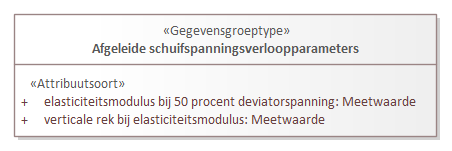
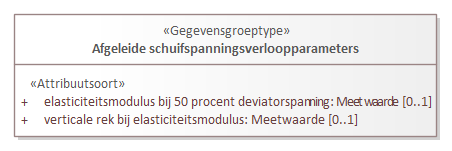
Conceptualmodel-GeotechnischbooronderzoekBHR-GT-2.3-2-20260424-20260708-123848

Changed region(s): [[0.6814, 0.6358, 0.9602, 0.8477]]

diff --git a/data/BHR-GT-cat.msword.html b/data/BHR-GT-cat.msword.html
@@ -6,7 +6,7 @@
                     table.list tbody tr th {background-color: #d3d3d3;}
                     table.list tbody tr th,
                     table.list tbody tr td {border: 1px solid black;}
-                </style></head><body><p>Conceptual model/Geotechnisch booronderzoek (BHR-GT)/20260424</p><p>Imvertor: Nightly-build.0</p><p>Model release: Conceptualmodel-GeotechnischbooronderzoekBHR-GT-2.3-2-20260424-20260708-110743</p><hr><section><h1>Artikel 1 Definitie van registratieobject, entiteiten en attributen</h1><section><h2>Registratieobject</h2><section id="global_class_Model_Registratieobject">
+                </style></head><body><p>Conceptual model/Geotechnisch booronderzoek (BHR-GT)/20260424</p><p>Imvertor: Nightly-build.0</p><p>Model release: Conceptualmodel-GeotechnischbooronderzoekBHR-GT-2.3-2-20260424-20260708-123848</p><hr><section><h1>Artikel 1 Definitie van registratieobject, entiteiten en attributen</h1><section><h2>Registratieobject</h2><section id="global_class_Model_Registratieobject">
                <table style="width: 100%;"><colgroup style="width: 30%;"></colgroup><colgroup style="width: 70%;"></colgroup><tbody><tr><th scope="row">Naam</th><td>Booronderzoek</td></tr><tr><th scope="row">Code</th><td>BHR</td></tr><tr><th scope="row">Definitie</th><td>
                         <p>Het geheel van gegevens dat betrekking heeft op een booronderzoek dat vanuit een bepaalde opdracht is uitgevoerd door op een bepaald moment op een bepaalde locatie in Nederland of zijn Exclusieve Economische Zone een boring uit te voeren en de monsters die daarmee uit de ondergrond zijn verkregen te beschrijven en/of te onderzoeken en/of in het boorgat zelf metingen aan de ondergrond uit te voeren.</p>
                      </td></tr><tr><th scope="row">Populatie</th><td>
@@ -4071,7 +4071,7 @@ De verschilwaterspanning wordt berekend of gemeten met een verschildrukopnemer e
                      </td></tr></tbody></table><section id="detail_attribute_Model_Afgeleideschuifspanningsverloopparameters_elasticiteitsmodulusbij50procentdeviatorspanning"><h4>  elasticiteitsmodulus bij 50 procent deviatorspanning</h4>
                   <table style="width: 100%;"><colgroup style="width: 30%;"></colgroup><colgroup style="width: 70%;"></colgroup><tbody><tr><th scope="row">Type gegeven</th><td>Attribuut van Afgeleide schuifspanningsverloopparameters</td></tr><tr><th scope="row">Definitie</th><td>
                            <p>De secantmodulus, oftewel de helling van de lijn getrokken van de oorsprong van de spanningsrekcurve tot aan het punt waar de deviatorspanning 50 % van zijn maximale waarde heeft bereikt.</p>
-                        </td></tr><tr><th scope="row">Juridische status</th><td>Authentiek</td></tr><tr><th scope="row">Kardinaliteit</th><td>1</td></tr><tr><th scope="row">Domein</th><td></td></tr><tr><th scope="row">&nbsp;&nbsp;Naam</th><td>Meetwaarde 
+                        </td></tr><tr><th scope="row">Juridische status</th><td>Authentiek</td></tr><tr><th scope="row">Kardinaliteit</th><td>0..1</td></tr><tr><th scope="row">Domein</th><td></td></tr><tr><th scope="row">&nbsp;&nbsp;Naam</th><td>Meetwaarde 
                         5.2</td></tr><tr><th scope="row">&nbsp;&nbsp;Eenheid</th><td>kPa (kilopascal)</td></tr><tr><th scope="row">&nbsp;&nbsp;Waardebereik</th><td> vanaf 0</td></tr><tr><th scope="row">Regels</th><td>
                            <p>Het attribuut mag niet aanwezig zijn wanneer de waarde van het attribuut <em>bepalingsprocedure</em> van de entiteit <em>Bepaling schuifspanningsverloop bij belasting</em> niet gelijk is aan <em>ISO17892d8v2018</em>, <em>ISO17892d9v2018</em>, <em>NEN_EN_ISO17892d8v2018_NEN8992v2025</em> of <em>NEN_EN_ISO17892d9v2018_NEN8992v2025</em>.</p>
                         </td></tr><tr><th scope="row">Toelichting</th><td>
@@ -4080,7 +4080,7 @@ De verschilwaterspanning wordt berekend of gemeten met een verschildrukopnemer e
                </section><section id="detail_attribute_Model_Afgeleideschuifspanningsverloopparameters_verticalerekbijelasticiteitsmodulus"><h4>  verticale rek bij elasticiteitsmodulus</h4>
                   <table style="width: 100%;"><colgroup style="width: 30%;"></colgroup><colgroup style="width: 70%;"></colgroup><tbody><tr><th scope="row">Type gegeven</th><td>Attribuut van Afgeleide schuifspanningsverloopparameters</td></tr><tr><th scope="row">Definitie</th><td>
                            <p>De axiale rek waarbij de elasticiteitsmodulus bij 50 procent deviatorspanning is bepaald.</p>
-                        </td></tr><tr><th scope="row">Juridische status</th><td>Authentiek</td></tr><tr><th scope="row">Kardinaliteit</th><td>1</td></tr><tr><th scope="row">Domein</th><td></td></tr><tr><th scope="row">&nbsp;&nbsp;Naam</th><td>Meetwaarde 
+                        </td></tr><tr><th scope="row">Juridische status</th><td>Authentiek</td></tr><tr><th scope="row">Kardinaliteit</th><td>0..1</td></tr><tr><th scope="row">Domein</th><td></td></tr><tr><th scope="row">&nbsp;&nbsp;Naam</th><td>Meetwaarde 
                         2.4</td></tr><tr><th scope="row">&nbsp;&nbsp;Eenheid</th><td>dimensieloos</td></tr><tr><th scope="row">&nbsp;&nbsp;Waardebereik</th><td> vanaf 0</td></tr><tr><th scope="row">Regels</th><td>
                            <p>Het attribuut mag niet aanwezig zijn wanneer de waarde van het attribuut <em>bepalingsprocedure</em> van de entiteit <em>Bepaling schuifspanningsverloop bij belasting</em> niet gelijk is aan <em>ISO17892d9v2018</em> of <em>NEN_EN_ISO17892d9v2018_NEN8992v2025</em>.</p>
                         </td></tr><tr><th scope="row">Toelichting</th><td>

diff --git a/data/BHR-GT-cat.respec.html b/data/BHR-GT-cat.respec.html
@@ -4063,7 +4063,7 @@ De verschilwaterspanning wordt berekend of gemeten met een verschildrukopnemer e
                      </td></tr></tbody></table><section id="detail_attribute_Model_Afgeleideschuifspanningsverloopparameters_elasticiteitsmodulusbij50procentdeviatorspanning"><h4>  elasticiteitsmodulus bij 50 procent deviatorspanning</h4>
                   <table style="width: 100%;"><colgroup style="width: 30%;"></colgroup><colgroup style="width: 70%;"></colgroup><tbody><tr><th scope="row">Type gegeven</th><td>Attribuut van Afgeleide schuifspanningsverloopparameters</td></tr><tr><th scope="row">Definitie</th><td>
                            <p>De secantmodulus, oftewel de helling van de lijn getrokken van de oorsprong van de spanningsrekcurve tot aan het punt waar de deviatorspanning 50 % van zijn maximale waarde heeft bereikt.</p>
-                        </td></tr><tr><th scope="row">Juridische status</th><td>Authentiek</td></tr><tr><th scope="row">Kardinaliteit</th><td>1</td></tr><tr><th scope="row">Domein</th><td></td></tr><tr><th scope="row">&nbsp;&nbsp;Naam</th><td>Meetwaarde 
+                        </td></tr><tr><th scope="row">Juridische status</th><td>Authentiek</td></tr><tr><th scope="row">Kardinaliteit</th><td>0..1</td></tr><tr><th scope="row">Domein</th><td></td></tr><tr><th scope="row">&nbsp;&nbsp;Naam</th><td>Meetwaarde 
                         5.2</td></tr><tr><th scope="row">&nbsp;&nbsp;Eenheid</th><td>kPa (kilopascal)</td></tr><tr><th scope="row">&nbsp;&nbsp;Waardebereik</th><td> vanaf 0</td></tr><tr><th scope="row">Regels</th><td>
                            <p>Het attribuut mag niet aanwezig zijn wanneer de waarde van het attribuut <em>bepalingsprocedure</em> van de entiteit <em>Bepaling schuifspanningsverloop bij belasting</em> niet gelijk is aan <em>ISO17892d8v2018</em>, <em>ISO17892d9v2018</em>, <em>NEN_EN_ISO17892d8v2018_NEN8992v2025</em> of <em>NEN_EN_ISO17892d9v2018_NEN8992v2025</em>.</p>
                         </td></tr><tr><th scope="row">Toelichting</th><td>
@@ -4072,7 +4072,7 @@ De verschilwaterspanning wordt berekend of gemeten met een verschildrukopnemer e
                </section><section id="detail_attribute_Model_Afgeleideschuifspanningsverloopparameters_verticalerekbijelasticiteitsmodulus"><h4>  verticale rek bij elasticiteitsmodulus</h4>
                   <table style="width: 100%;"><colgroup style="width: 30%;"></colgroup><colgroup style="width: 70%;"></colgroup><tbody><tr><th scope="row">Type gegeven</th><td>Attribuut van Afgeleide schuifspanningsverloopparameters</td></tr><tr><th scope="row">Definitie</th><td>
                            <p>De axiale rek waarbij de elasticiteitsmodulus bij 50 procent deviatorspanning is bepaald.</p>
-                        </td></tr><tr><th scope="row">Juridische status</th><td>Authentiek</td></tr><tr><th scope="row">Kardinaliteit</th><td>1</td></tr><tr><th scope="row">Domein</th><td></td></tr><tr><th scope="row">&nbsp;&nbsp;Naam</th><td>Meetwaarde 
+                        </td></tr><tr><th scope="row">Juridische status</th><td>Authentiek</td></tr><tr><th scope="row">Kardinaliteit</th><td>0..1</td></tr><tr><th scope="row">Domein</th><td></td></tr><tr><th scope="row">&nbsp;&nbsp;Naam</th><td>Meetwaarde 
                         2.4</td></tr><tr><th scope="row">&nbsp;&nbsp;Eenheid</th><td>dimensieloos</td></tr><tr><th scope="row">&nbsp;&nbsp;Waardebereik</th><td> vanaf 0</td></tr><tr><th scope="row">Regels</th><td>
                            <p>Het attribuut mag niet aanwezig zijn wanneer de waarde van het attribuut <em>bepalingsprocedure</em> van de entiteit <em>Bepaling schuifspanningsverloop bij belasting</em> niet gelijk is aan <em>ISO17892d9v2018</em> of <em>NEN_EN_ISO17892d9v2018_NEN8992v2025</em>.</p>
                         </td></tr><tr><th scope="row">Toelichting</th><td>
